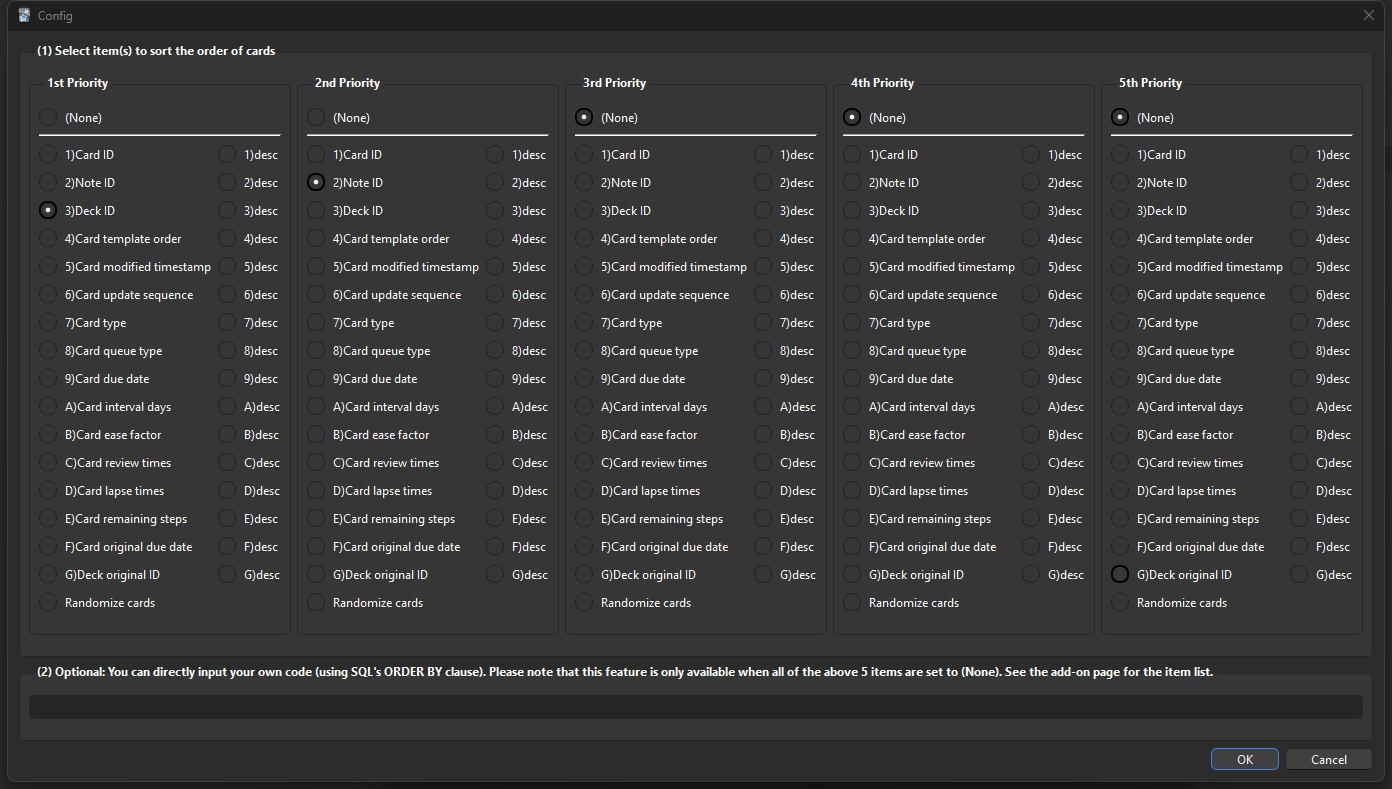
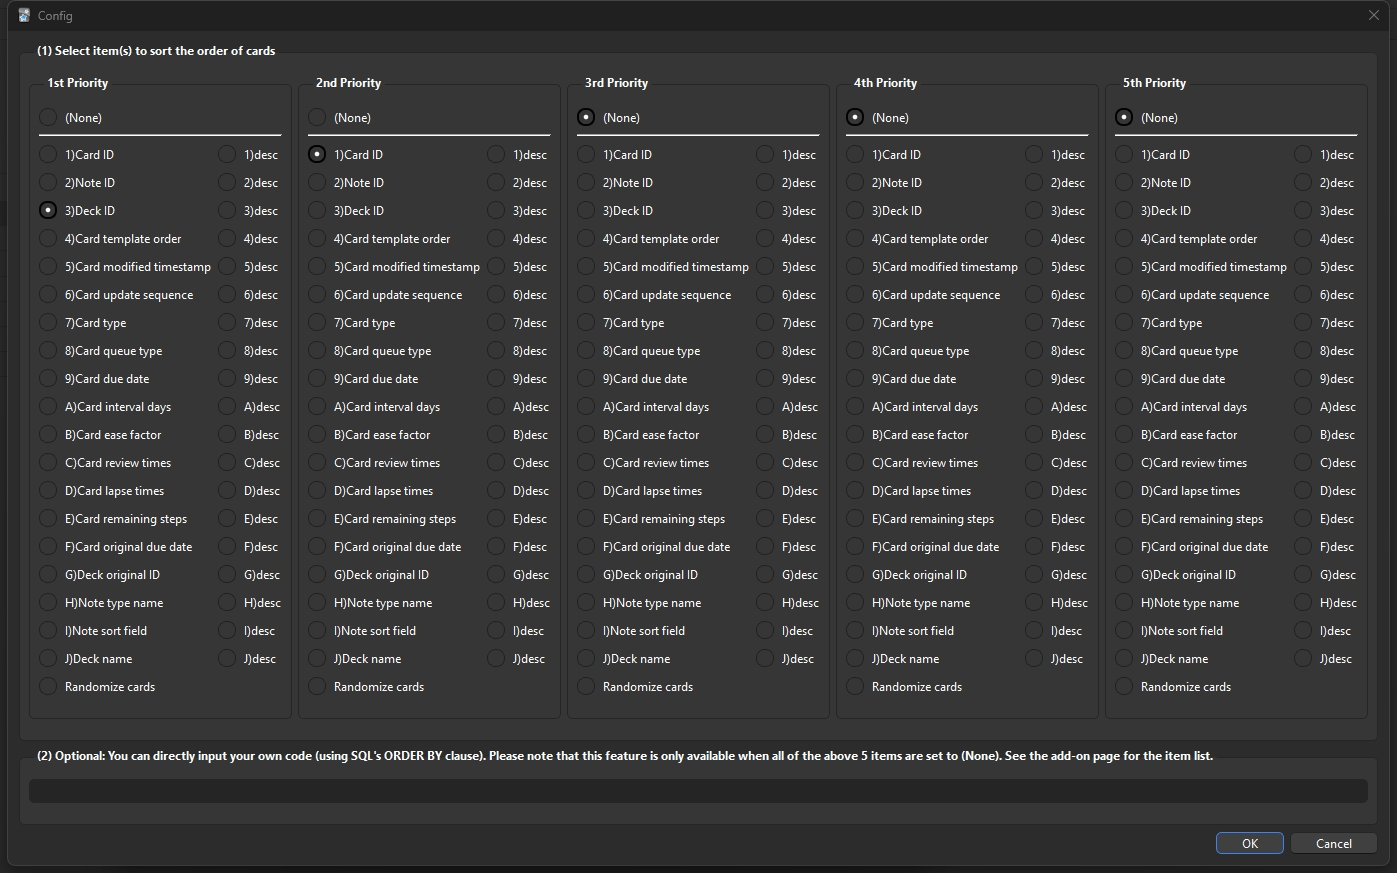
Add files via upload

diff --git a/card_order_custom.py b/card_order_custom.py
@@ -1,5 +1,4 @@
-# Modified from Anki's opensourced codes at GitHub
-
+from re import T
 import anki, json, random
 from anki.scheduler.v2 import Scheduler
 from aqt import mw
@@ -19,42 +18,49 @@ def _fillRev(self, recursing: bool = False) -> bool:
         config = mw.addonManager.getConfig(__name__)
 
         # Get the custom order by setting
+        # time.localtime(id/1000) = date created
         orders = ['order1', 'order2', 'order3', 'order4', 'order5']
         labeled_order_by_items = {
             "(None)": "",
-            "1)Card ID": "id",
-            "2)Note ID": "nid",
-            "3)Deck ID": "did",
-            "4)Card template order": "ord",
-            "5)Card modified timestamp": "mod",
-            "6)Card update sequence": "usn",
-            "7)Card type": "type",
-            "8)Card queue type": "queue",
-            "9)Card due date": "due",
-            "A)Card interval days": "ivl",
-            "B)Card ease factor": "factor",
-            "C)Card review times": "reps",
-            "D)Card lapse times": "lapses",
-            "E)Card remaining steps": "left",
-            "F)Card original due date": "odue",
-            "G)Deck original ID": "odid",
+            "1)Card ID": "cards.id",
+            "2)Note ID": "cards.nid",
+            "3)Deck ID": "cards.did",
+            "4)Card template order": "cards.ord",
+            "5)Card modified timestamp": "cards.mod",
+            "6)Card update sequence": "cards.usn",
+            "7)Card type": "cards.type",
+            "8)Card queue type": "cards.queue",
+            "9)Card due date": "cards.due",
+            "A)Card interval days": "cards.ivl",
+            "B)Card ease factor": "cards.factor",
+            "C)Card review times": "cards.reps",
+            "D)Card lapse times": "cards.lapses",
+            "E)Card remaining steps": "cards.left",
+            "F)Card original due date": "cards.odue",
+            "G)Deck original ID": "cards.odid",
+            "H)Note type name": "notetypes.name",
+            "I)Note sort field": "notes.sfld",
+            "J)Deck name": "decks.name",
             "Randomize cards": "random()",
-            "1)desc": "id desc",
-            "2)desc": "nid desc",
-            "3)desc": "did desc",
-            "4)desc": "ord desc",
-            "5)desc": "mod desc",
-            "6)desc": "usn desc",
-            "7)desc": "type desc",
-            "8)desc": "queue desc",
-            "9)desc": "due desc",
-            "A)desc": "ivl desc",
-            "B)desc": "factor desc",
-            "C)desc": "reps desc",
-            "D)desc": "lapses desc",
-            "E)desc": "left desc",
-            "F)desc": "odue desc",
-            "G)desc": "odid desc",
+            "1)desc": "cards.id desc",
+            "2)desc": "cards.nid desc",
+            "3)desc": "cards.did desc",
+            "4)desc": "cards.ord desc",
+            "5)desc": "cards.mod desc",
+            "6)desc": "cards.usn desc",
+            "7)desc": "cards.type desc",
+            "8)desc": "cards.queue desc",
+            "9)desc": "cards.due desc",
+            "A)desc": "cards.ivl desc",
+            "B)desc": "cards.factor desc",
+            "C)desc": "cards.reps desc",
+            "D)desc": "cards.lapses desc",
+            "E)desc": "cards.left desc",
+            "F)desc": "cards.odue desc",
+            "G)desc": "cards.odid desc",
+            "H)desc": "notetypes.name desc",
+            "I)desc": "notes.sfld desc",
+            "J)desc": "decks.name desc",
         }
         order_values = []
         for order in orders:
@@ -72,23 +78,32 @@ def _fillRev(self, recursing: bool = False) -> bool:
         elif orderUser:
             order_by = orderUser
         else:
-            order_by = "due, random()"
+            order_by = "cards.due, random()"  # Anki's default: "due, random()"
 
         # queue types: 0=new, 1=(re)lrn, 2=rev, 3=day (re)lrn,
         #   4=preview, -1=suspended, -2=sibling buried, -3=manually buried
         # Addon note: 'order by {order_by}' is replaced from 'order by due, random()'
+        sql_pre = "select cards.id from cards"
+        sql_var = ""
+        sql_suf = f" where cards.did in %s and cards.queue = {QUEUE_TYPE_REV} and cards.due <= ? order by {order_by} limit ?"
+
+        if 'decks.name' in order_by:
+            sql_var += " join decks on cards.did = decks.id"
+        if 'notetypes.name' in order_by or 'notes.sfld' in order_by:
+            sql_var += " join notes on cards.nid = notes.id"
+        if 'notetypes.name' in order_by:
+            sql_var += " join notetypes on notes.mid = notetypes.id"
+
+        sql_query = sql_pre + sql_var + sql_suf
+
         self._revQueue = self.col.db.list(
-            f"""
-select id from cards where
-did in %s and queue = {QUEUE_TYPE_REV} and due <= ?
-order by {order_by}
-limit ?"""
+            sql_query
             % self._deck_limit(),
             self.today,
             lim,
         )
 
-        ''' # for debugging at a glance
+        ''' # quick debugging
         debug_info = "Deck limit: " + str(self._deck_limit()) + "\nRevQueue: " + str(self._revQueue)
         for card_id in self._revQueue:
             card = self.col.getCard(card_id)
@@ -111,3 +126,31 @@ limit ?"""
     return self._fillRev(recursing=True)
 
 anki.scheduler.v2.Scheduler._fillRev = _fillRev
+
+'''
+### version handling suggested by ChatGPT ###
+import anki
+
+# Get the Anki version
+anki_version = tuple(int(x) for x in anki.version.split("."))
+
+def _fillRev_v1(...):
+    # Implementation for Anki version 1.x
+    ...
+
+def _fillRev_v2(...):
+    # Implementation for Anki version 2.x
+    ...
+
+# Select the appropriate function and use the same name in the global scope
+if anki_version[0] == 1:
+    _fillRev = _fillRev_v1
+elif anki_version[0] == 2:
+    _fillRev = _fillRev_v2
+else:
+    # Unsupported version
+    raise NotImplementedError("This Anki version is not supported")
+
+# Assign the selected function to Anki's Scheduler
+anki.scheduler.v2.Scheduler._fillRev = _fillRev
+'''

diff --git a/config_ui.py b/config_ui.py
@@ -140,7 +140,10 @@ order_by_asc_items = [
     "E)Card remaining steps",
     "F)Card original due date",
     "G)Deck original ID",
-    "Randomize cards"
+    "H)Note type name",
+    "I)Note sort field",
+    "J)Deck name",
+    "Randomize cards",
 ]
 
 order_by_desc_items = [
@@ -159,7 +162,10 @@ order_by_desc_items = [
     "D)desc",
     "E)desc",
     "F)desc",
-    "G)desc"
+    "G)desc",
+    "H)desc",
+    "I)desc",
+    "J)desc",
 ]
 
 order_by_none = ["(None)"]
